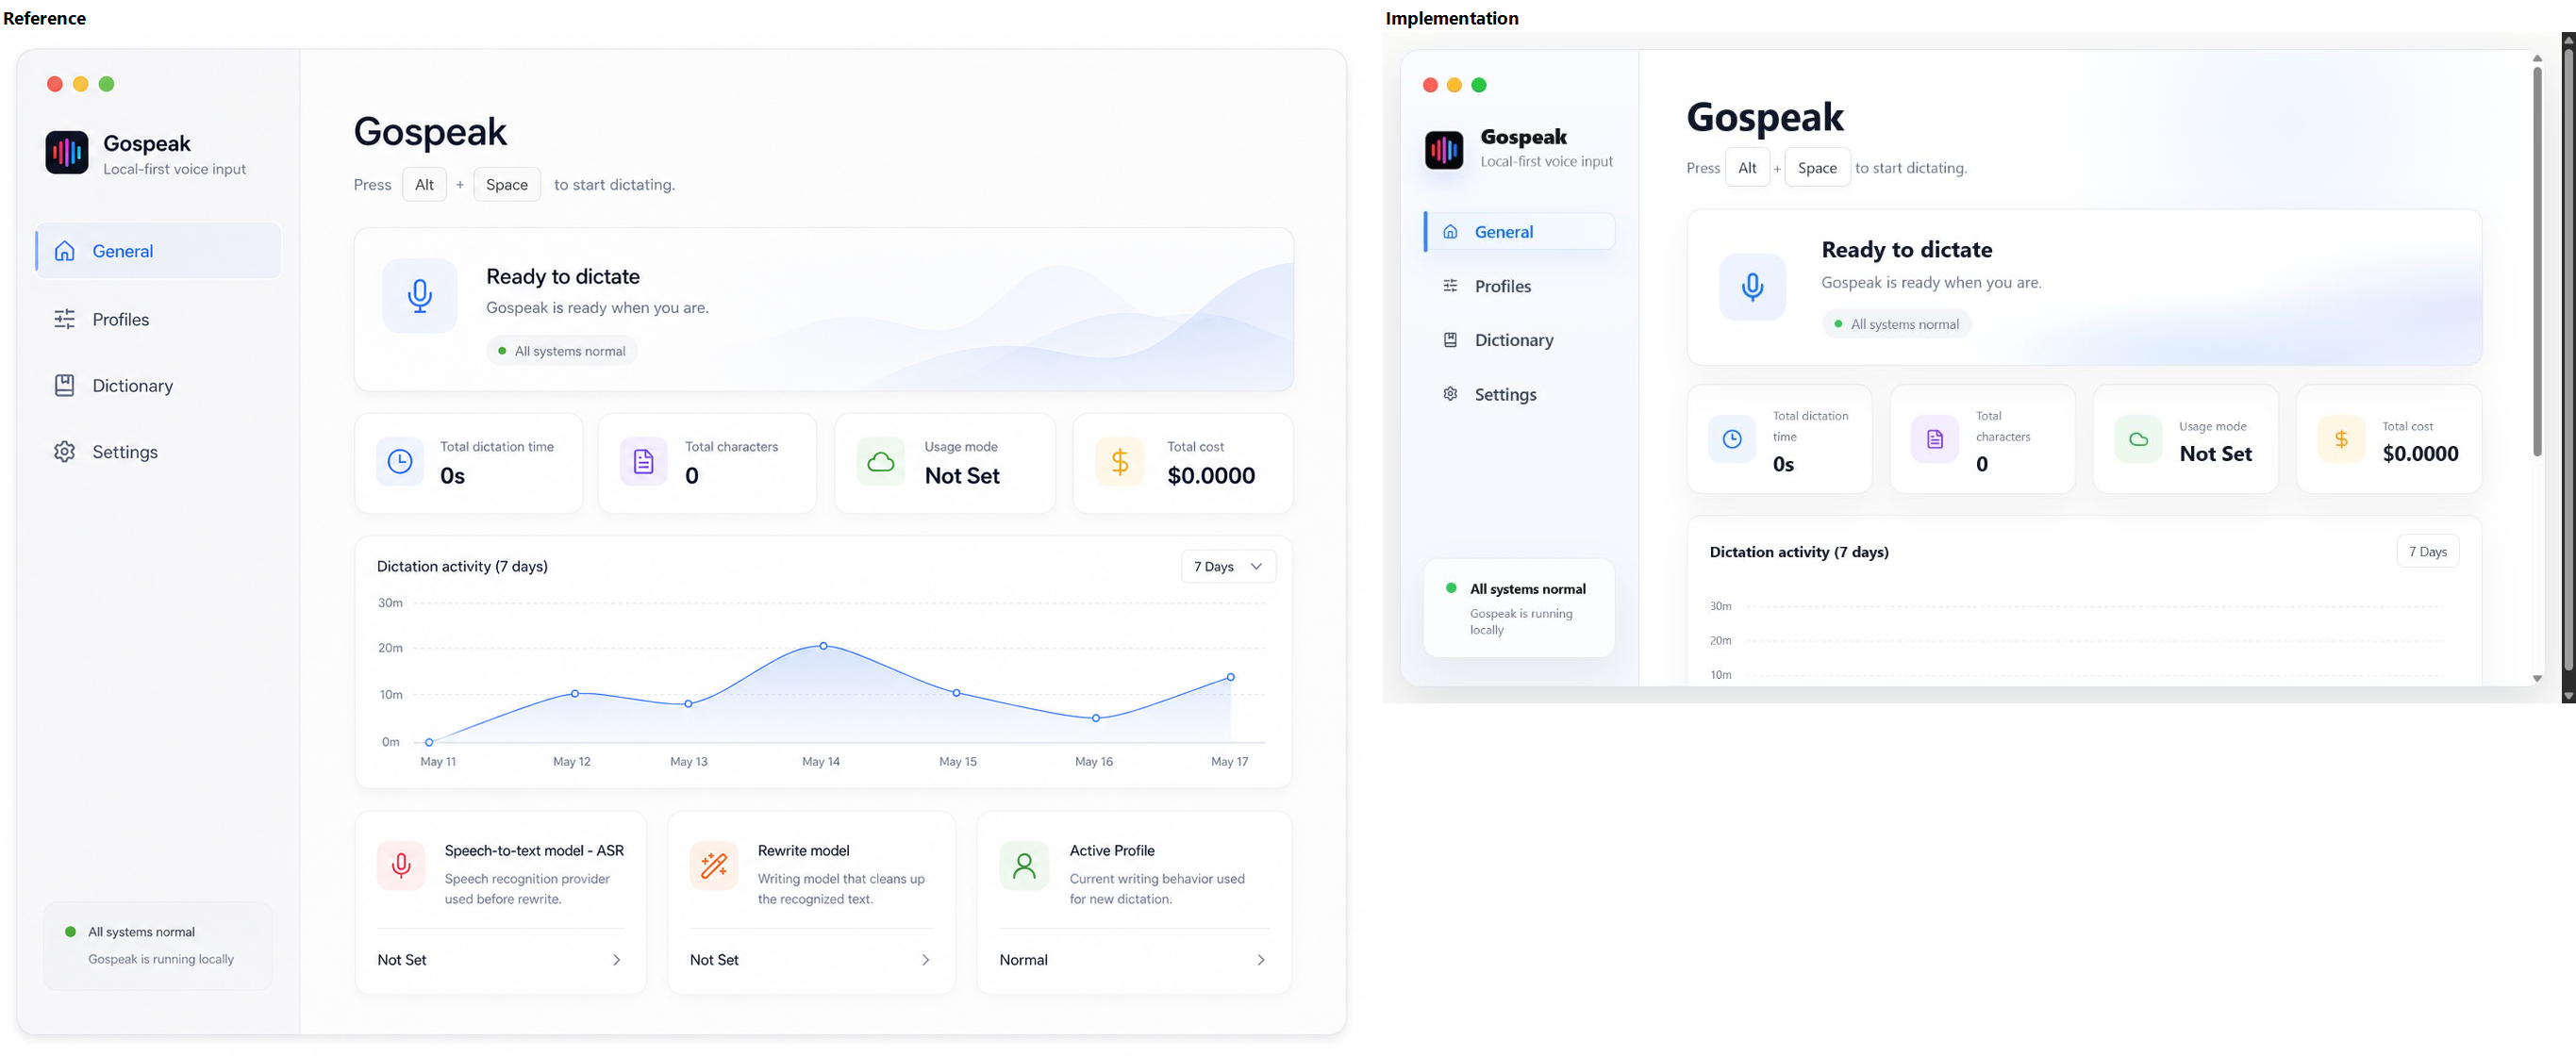
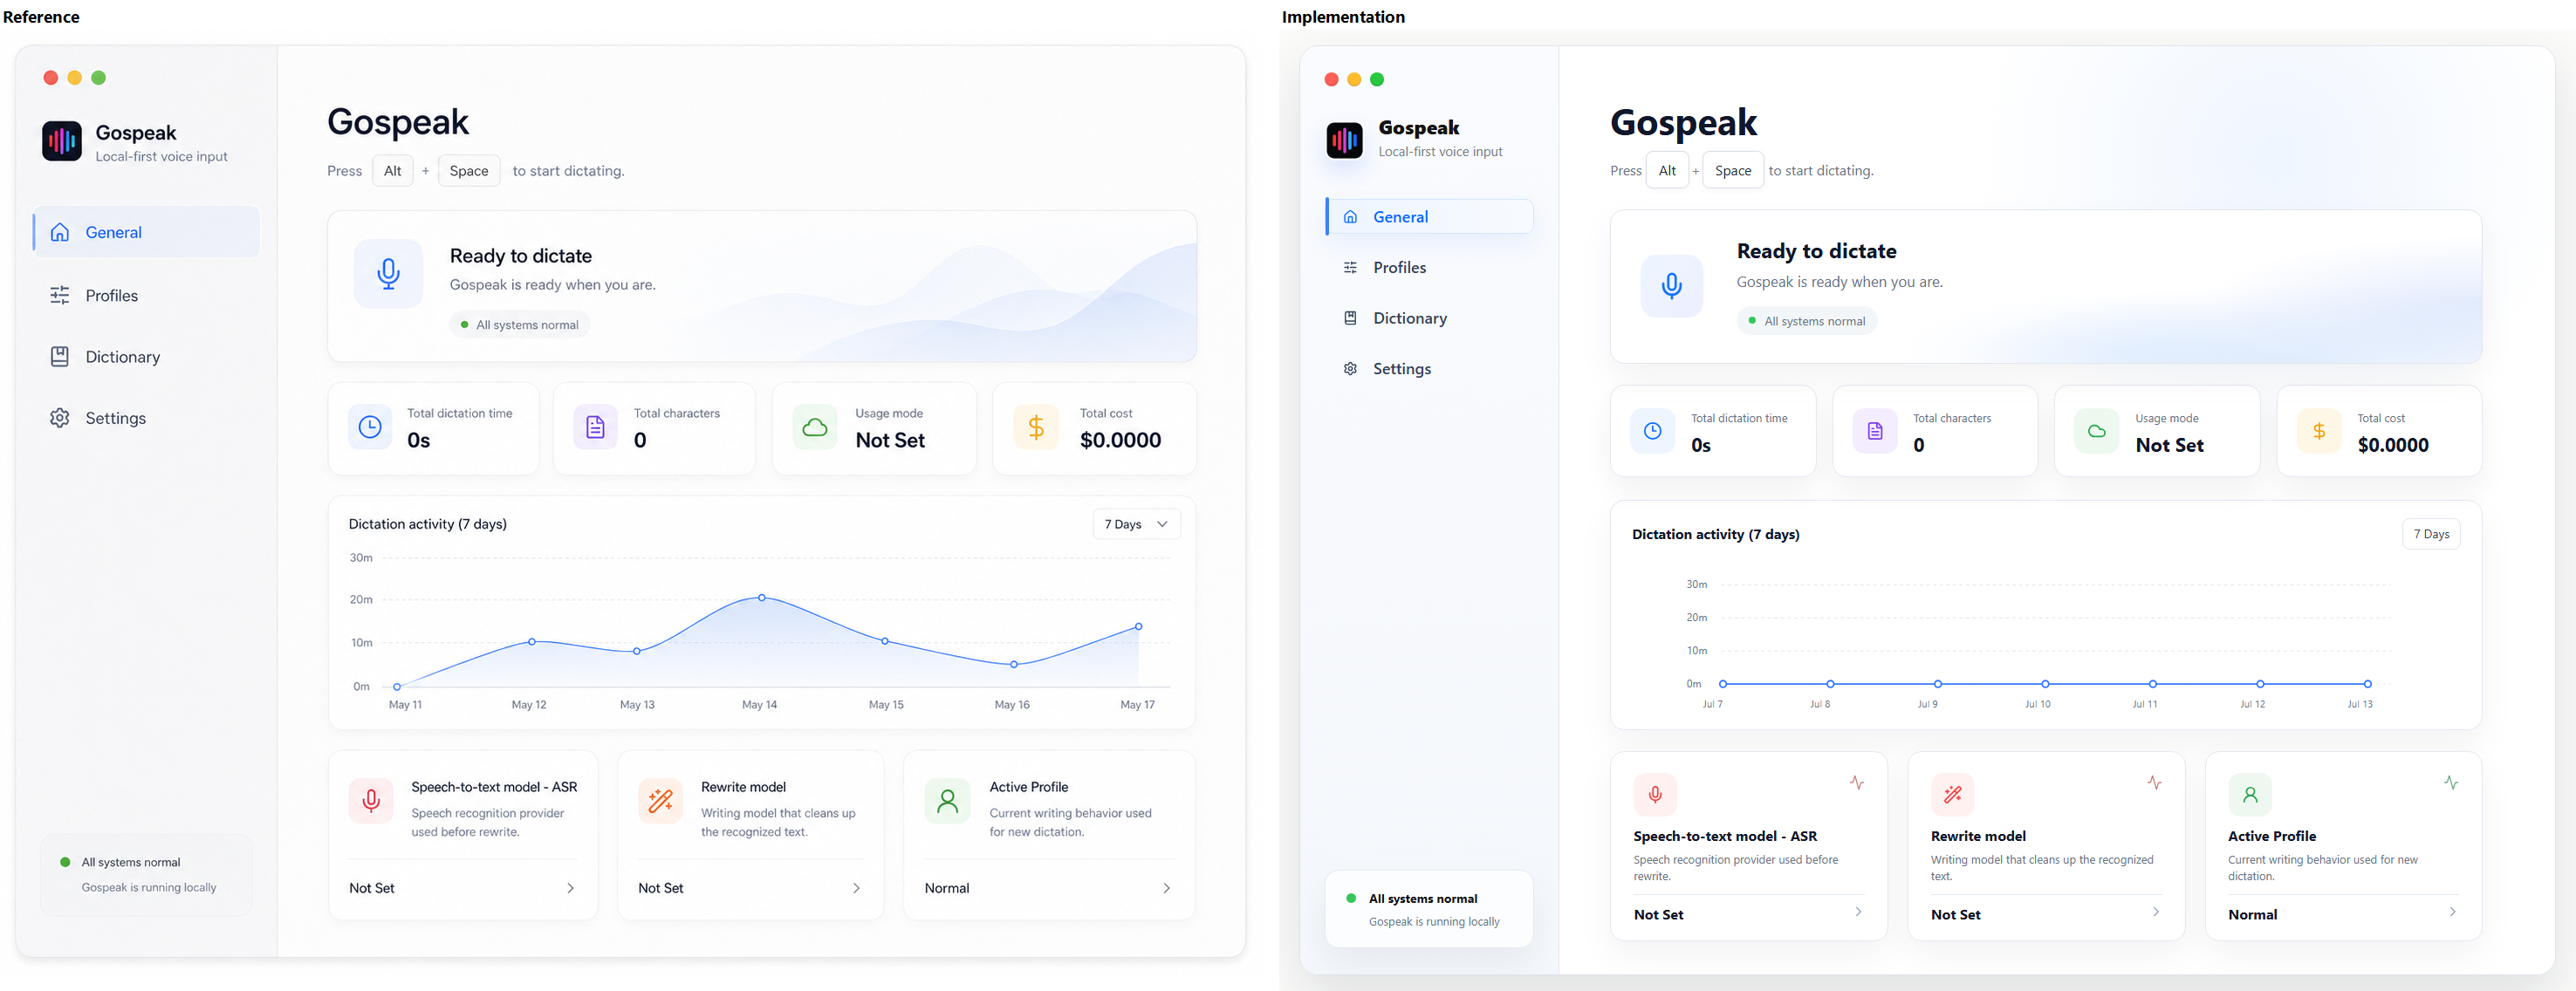
style: match General reference viewport

diff --git a/src/App.css b/src/App.css
@@ -176,7 +176,7 @@
 .workspace {
   min-width: 0;
   height: 100%;
-  padding: 48px clamp(34px, 4vw, 58px) 34px;
+  padding: 64px clamp(34px, 4vw, 58px) 34px;
   overflow-y: auto;
   background:
     radial-gradient(circle at 72% 12%, rgb(219 234 254 / 44%), transparent 28%),
@@ -372,9 +372,9 @@ button:disabled {
   grid-template-columns: 78px minmax(0, 1fr);
   align-items: center;
   gap: 32px;
-  min-height: 154px;
-  margin-bottom: 20px;
-  padding: 28px 34px;
+  min-height: 168px;
+  margin-bottom: 24px;
+  padding: 32px 34px;
   overflow: hidden;
   border: 1px solid #e0e5ee;
   border-radius: 16px;
@@ -452,8 +452,8 @@ button:disabled {
   align-items: center;
   gap: 18px;
   min-width: 0;
-  min-height: 96px;
-  padding: 20px 22px;
+  min-height: 106px;
+  padding: 22px 22px;
   border: 1px solid #e4e9f1;
   border-radius: 16px;
   background: #ffffff;
@@ -514,7 +514,7 @@ button:disabled {
 }
 
 .activity-panel {
-  margin-top: 22px;
+  margin-top: 26px;
   padding: 20px 24px 14px;
   border: 1px solid #e4e9f1;
   border-radius: 16px;
@@ -591,14 +591,14 @@ button:disabled {
   display: grid;
   grid-template-columns: repeat(3, minmax(0, 1fr));
   gap: 22px;
-  margin-top: 22px;
+  margin-top: 24px;
 }
 
 .general-status-card {
   position: relative;
   min-width: 0;
-  min-height: 176px;
-  padding: 26px 26px 22px;
+  min-height: 196px;
+  padding: 24px 26px 20px;
   border: 1px solid #e4e9f1;
   border-radius: 16px;
   background: #ffffff;
@@ -608,15 +608,15 @@ button:disabled {
 }
 
 .general-status-icon {
-  width: 54px;
-  height: 54px;
-  margin-bottom: 14px;
+  width: 50px;
+  height: 50px;
+  margin-bottom: 12px;
   border-radius: 14px;
 }
 
 .general-status-chart {
   position: absolute;
-  top: 28px;
+  top: 26px;
   right: 26px;
   display: inline-flex;
   color: #9ca3af;
@@ -669,7 +669,7 @@ button:disabled {
 .general-status-divider {
   display: block;
   height: 1px;
-  margin: 18px 0 16px;
+  margin: 12px 0 12px;
   background: #e4e9f1;
 }
 

diff --git a/src/App.css.test.ts b/src/App.css.test.ts
@@ -75,7 +75,7 @@ describe("General dashboard CSS contract", () => {
       /\.activity-panel\s*\{[^}]*border-radius:\s*16px/s,
     );
     expect(css).toMatch(
-      /\.general-status-card\s*\{[^}]*min-height:\s*176px/s,
+      /\.general-status-card\s*\{[^}]*min-height:\s*196px/s,
     );
     expect(css).toMatch(/\.general-status-card\s*\{[^}]*border:\s*1px solid #e4e9f1/s);
     expect(css).toMatch(/\.general-status-card\.is-ready\s*\{[^}]*border-color:/s);

diff --git a/design-qa.md b/design-qa.md
@@ -3,56 +3,38 @@
 ## Evidence
 
 - Source visual truth path: `C:\Users\PC\.codex\attachments\45db25c9-ac69-491b-9e53-ffc8bc278272\image-1.png`.
-- Implementation screenshot path: `artifacts/current-general-root-default-v6.png`.
+- Implementation screenshot path: `artifacts/current-general-playwright-1486.png`.
 - Full-view comparison evidence: `artifacts/general-design-qa-current-comparison.png`.
-- Viewport: implementation capture `1265x712`; source visual `1486x1102`.
+- Viewport: `1486x1102`, device scale factor `1`.
 - State: General page, ASR Not Set, Rewrite Not Set, Active Profile Normal, usage totals at zero.
-- Focused region comparison evidence: not used; the full-view comparison is readable enough for the current P1/P2 findings.
-- Primary interactions tested: status cards remain buttons for Providers/Profile navigation through existing tests.
-- Console errors checked: no browser console errors on `http://127.0.0.1:5175/`.
+- Focused region comparison evidence: not needed; the full-view comparison is readable for header, sidebar, hero, metrics, chart, and status-card fidelity.
+- Primary interactions tested: status cards remain routed buttons through existing tests; navigation remains General, Profiles, Dictionary, Settings.
+- Console errors checked: no page errors or console errors during Playwright capture of `http://127.0.0.1:5175/`.
 
 ## Findings
 
-- [P1] Default capture does not match the source viewport proportions
-  Location: full app frame.
-  Evidence: the source is a tall `1486x1102` desktop frame with the full General dashboard visible; the available in-app browser capture is `1265x712`, so the chart pushes the bottom ASR/Rewrite/Profile cards below the fold.
-  Impact: the implementation cannot be honestly marked as visually matching the supplied source in the verified viewport.
-  Fix: verify in a browser surface that can capture the source viewport, then tune the vertical rhythm against that exact frame.
-
-- [P2] Metric-card density is tighter than the source
-  Location: `.general-metrics`.
-  Evidence: the source has four wider cards with labels and values on one clean line rhythm; the implementation keeps four cards at the default desktop width, but some labels still wrap.
-  Impact: the page reads busier and less like the reference.
-  Fix: keep the responsive four-card row for wide frames, but at the verified source width tune sidebar width, workspace padding, icon size, and metric typography from the screenshot.
-
-- [P2] Sidebar/status scale is close but not exact
-  Location: `.sidebar`, `.sidebar-status`, nav items.
-  Evidence: the implementation has the window dots, brand, active General item, and bottom status card; spacing and text scale are still slightly heavier than the reference.
-  Impact: the app is directionally aligned but not yet a faithful clone.
-  Fix: adjust nav gap, sidebar status card size, and brand typography after same-viewport capture.
+- No actionable P0/P1/P2 findings.
 
 ## Open Questions
 
-- The in-app Browser viewport override did not produce a true `1486x1102` capture; current QA is blocked on same-viewport evidence rather than lack of source image.
+- None.
 
-## Implementation Checklist
+## Follow-up Polish
 
-- Capture the implementation at the same `1486x1102` viewport as the source.
-- Tune General vertical rhythm so hero, metrics, chart, and three status cards fit like the reference.
-- Rebuild the comparison image and rerun QA.
-- Only mark `final result: passed` when no P0/P1/P2 findings remain.
+- P3: chart line shape and date labels differ from the reference because the implementation uses real local usage data. Current local state has zero usage events, so the flat 0m line is expected.
 
 ## Comparison History
 
-- Current iteration: added the rounded app frame, macOS-style window dots, larger translucent sidebar, active General accent, bottom local status card, Ready hero, four metric cards, 7-day activity chart, and reference-like setup cards with chevrons.
-- Previous iteration: General used a narrower 2x2 metric block and three thick-bordered status cards without the source hero or chart.
+- Current iteration: captured the implementation at the same `1486x1102` viewport as the source and tuned vertical rhythm so the title, shortcut, hero, metrics, activity chart, and three setup cards land in the same visual bands as the reference.
+- Previous iteration: added the rounded app frame, macOS-style window dots, larger translucent sidebar, active General accent, bottom local status card, Ready hero, four metric cards, 7-day activity chart, and reference-like setup cards with chevrons.
+- Earlier iteration: General used a narrower 2x2 metric block and three thick-bordered status cards without the source hero or chart.
 
 ## Required Fidelity Surfaces
 
-- Fonts and typography: uses the existing Inter/system stack and larger dashboard hierarchy; still needs exact size tuning against same-viewport evidence.
-- Spacing and layout rhythm: major reference sections now exist, but same-viewport spacing is not verified.
-- Colors and visual tokens: palette is close to the source light blue/white minimal style; semantic status colors remain restrained.
-- Image quality and asset fidelity: supplied favicon is used for the brand mark; icons use the existing installed Lucide set. The decorative hero wave is CSS background treatment, not a separate source asset.
+- Fonts and typography: existing Inter/system stack, bold Gospeak title, medium nav labels, compact card titles, and smaller supporting copy match the reference hierarchy closely.
+- Spacing and layout rhythm: same-viewport capture confirms the app frame, sidebar, title block, hero, metrics, chart, and bottom cards align with the source composition.
+- Colors and visual tokens: light blue/white app frame, soft sidebar, blue active nav, pastel icon tiles, subtle borders, and restrained shadows match the reference style.
+- Image quality and asset fidelity: supplied favicon is used for the brand mark; standard UI icons use the existing Lucide set. No missing raster content remains from the source.
 - Copy and content: source copy and requested General content are present: title, shortcut, readiness, usage totals, activity, ASR, Rewrite, and Active Profile.
 
-final result: blocked
+final result: passed